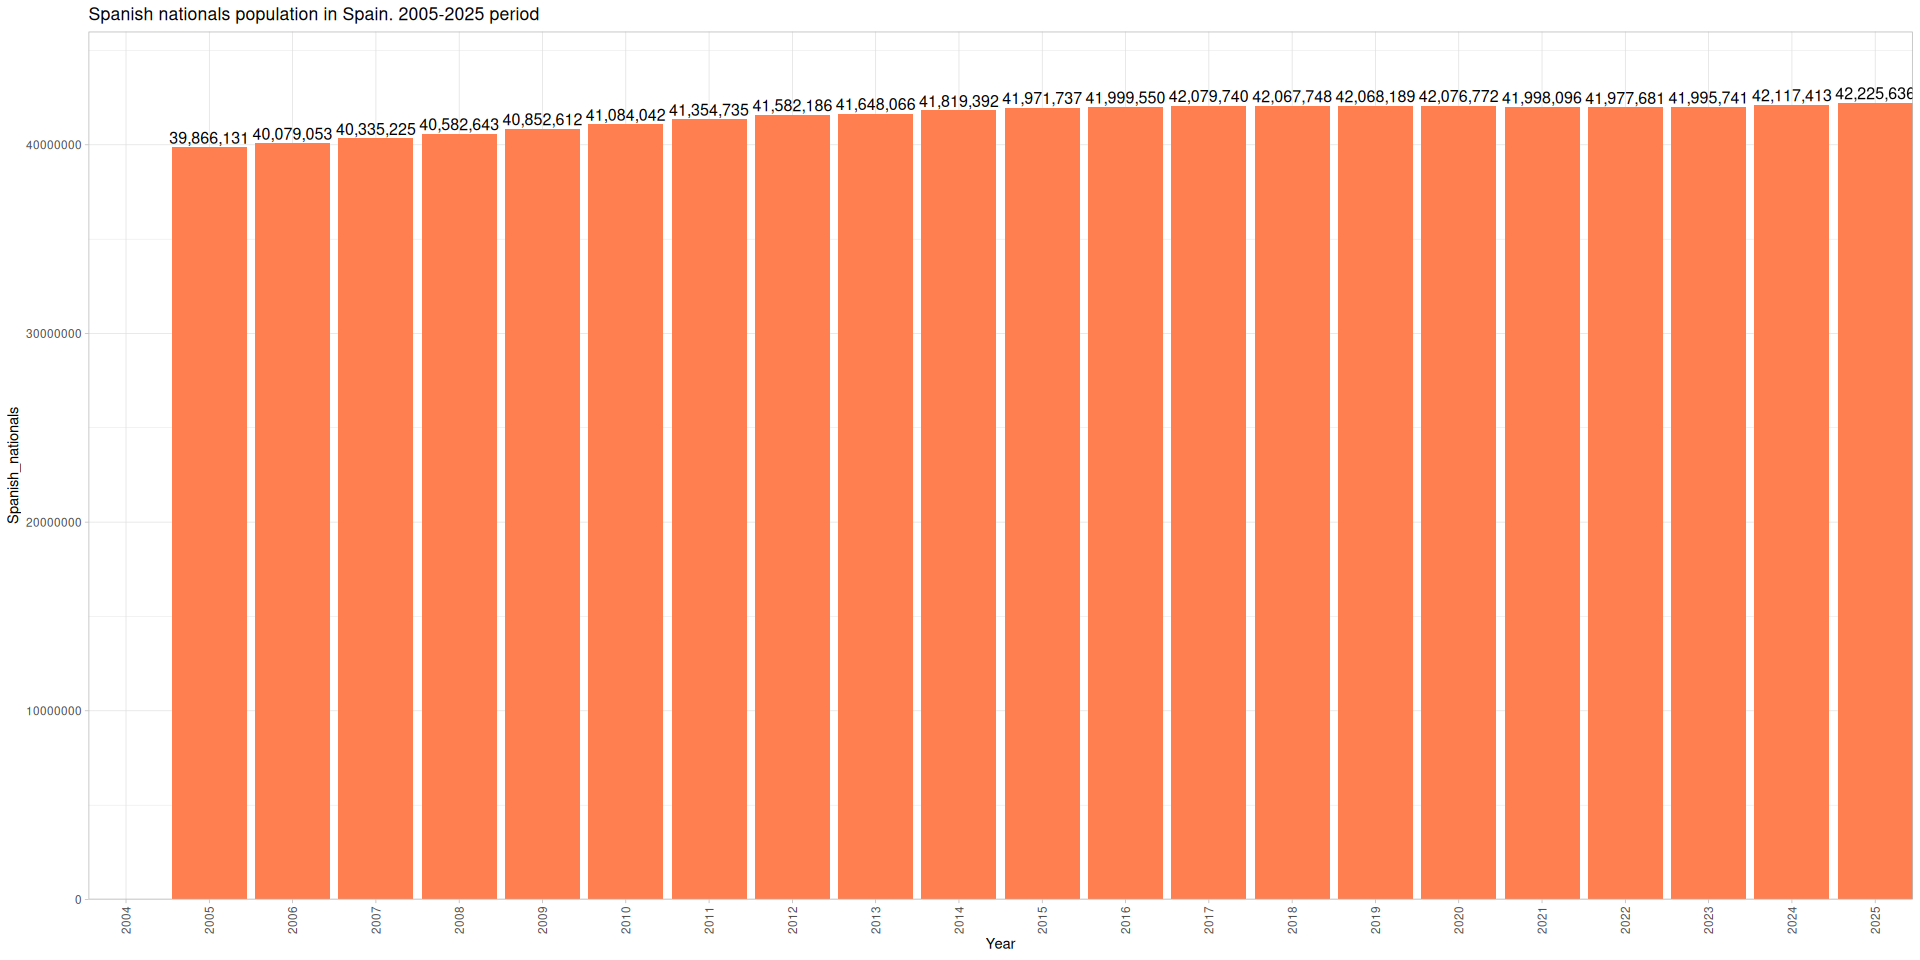
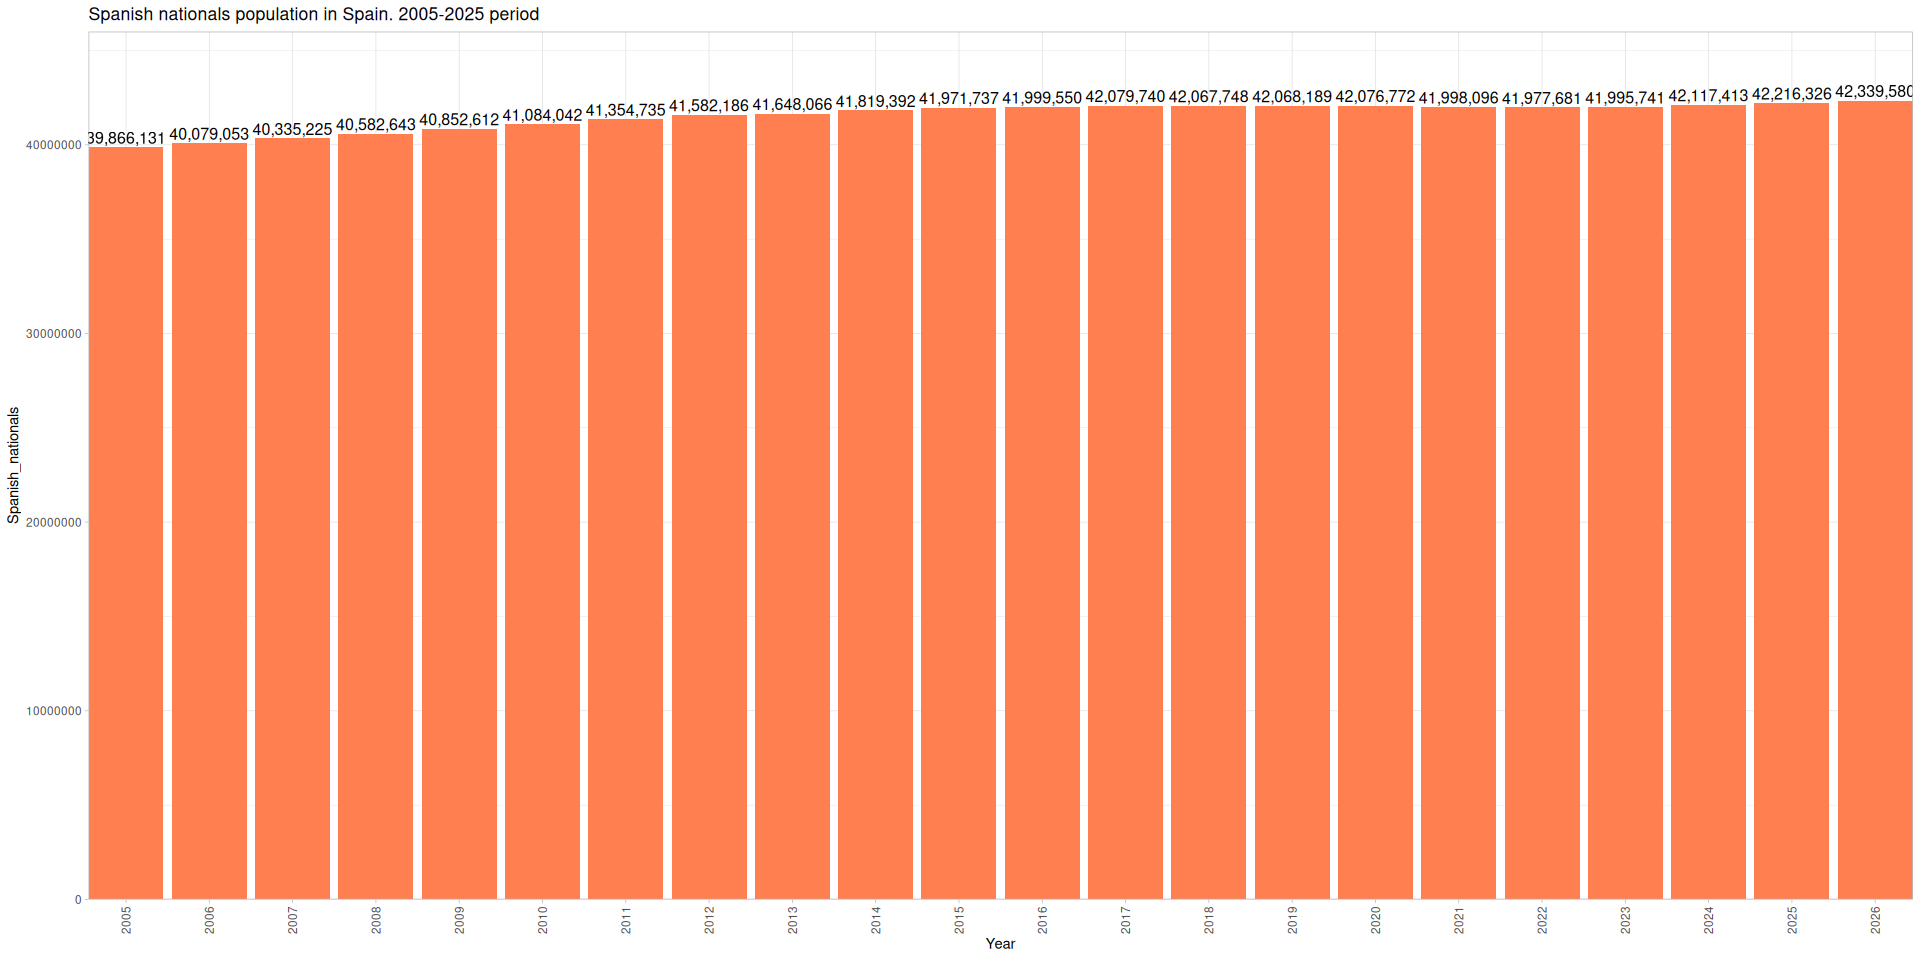
Rendered recent Spain population trends

Changed region(s): [[0.0312, 0.0938, 1.0, 0.9375]]

diff --git a/Recent-population-trends-in-Spain.md b/Recent-population-trends-in-Spain.md
@@ -1,12 +1,12 @@
 Recent Spain population trends
 ================
 PLR
-2026-08-28
+2026-08-30
 
 ## Latest date this report was produced
 
-Today’s date is **28 August 2026**. This report was published on the
-week starting on **26 August 2026**.
+Today’s date is **30 August 2026**. This report was published on the
+week starting on **28 August 2026**.
 
 ## 1. Load Spain population data
 
@@ -45,12 +45,12 @@ head(population_data)
     ## # A tibble: 6 × 8
     ##   date               total_population foreign_population percent_foreign_popul…¹
     ##   <chr>                         <dbl>              <dbl>                   <dbl>
-    ## 1 1 de enero de 2025         49077984            6852348                   0.140
-    ## 2 1 de enero de 2024         48619695            6502282                   0.134
-    ## 3 1 de enero de 2023         48085361            6089620                   0.127
-    ## 4 1 de enero de 2022         47486727            5509046                   0.116
-    ## 5 1 de enero de 2021         47400798            5402702                   0.114
-    ## 6 1 de enero de 2020         47318050            5241278                   0.111
+    ## 1 1 de enero de 2026         49596376            7256796                   0.146
+    ## 2 1 de enero de 2025         49128297            6911971                   0.141
+    ## 3 1 de enero de 2024         48619695            6502282                   0.134
+    ## 4 1 de enero de 2023         48085361            6089620                   0.127
+    ## 5 1 de enero de 2022         47486727            5509046                   0.116
+    ## 6 1 de enero de 2021         47400798            5402702                   0.114
     ## # ℹ abbreviated name: ¹percent_foreign_population
     ## # ℹ 4 more variables: total_population_YoY_N <dbl>,
     ## #   total_population_YoY_perc <dbl>, foreign_population_YoY_N <dbl>,
@@ -77,16 +77,16 @@ population_change
     ## # A tibble: 22 × 6
     ##    date           total_population foreign_nationals_po…¹ percent_foreign_popu…²
     ##    <chr>                     <dbl>                  <dbl>                  <dbl>
-    ##  1 1 de enero de…         49077984                6852348                 0.140 
-    ##  2 1 de enero de…         48619695                6502282                 0.134 
-    ##  3 1 de enero de…         48085361                6089620                 0.127 
-    ##  4 1 de enero de…         47486727                5509046                 0.116 
-    ##  5 1 de enero de…         47400798                5402702                 0.114 
-    ##  6 1 de enero de…         47318050                5241278                 0.111 
-    ##  7 1 de enero de…         46918951                4850762                 0.103 
-    ##  8 1 de enero de…         46645070                4577322                 0.0981
-    ##  9 1 de enero de…         46497393                4417653                 0.0950
-    ## 10 1 de enero de…         46418884                4419334                 0.0952
+    ##  1 1 de enero de…         49596376                7256796                 0.146 
+    ##  2 1 de enero de…         49128297                6911971                 0.141 
+    ##  3 1 de enero de…         48619695                6502282                 0.134 
+    ##  4 1 de enero de…         48085361                6089620                 0.127 
+    ##  5 1 de enero de…         47486727                5509046                 0.116 
+    ##  6 1 de enero de…         47400798                5402702                 0.114 
+    ##  7 1 de enero de…         47318050                5241278                 0.111 
+    ##  8 1 de enero de…         46918951                4850762                 0.103 
+    ##  9 1 de enero de…         46645070                4577322                 0.0981
+    ## 10 1 de enero de…         46497393                4417653                 0.0950
     ## # ℹ 12 more rows
     ## # ℹ abbreviated names: ¹foreign_nationals_population,
     ## #   ²percent_foreign_population
@@ -116,16 +116,16 @@ population_change_fmt_date
     ## # A tibble: 22 × 6
     ##    date_fmt   total_population foreign_nationals_popula…¹ percent_foreign_popu…²
     ##    <date>                <dbl>                      <dbl>                  <dbl>
-    ##  1 2004-01-01         42547454                         NA                NA     
-    ##  2 2005-01-01         43296335                    3430204                 0.0792
-    ##  3 2006-01-01         44009969                    3930916                 0.0893
-    ##  4 2007-01-01         44784659                    4449434                 0.0994
-    ##  5 2008-01-01         45668938                    5086295                 0.111 
-    ##  6 2009-01-01         46239271                    5386659                 0.116 
-    ##  7 2010-01-01         46486621                    5402579                 0.116 
-    ##  8 2011-01-01         46667175                    5312440                 0.114 
-    ##  9 2012-01-01         46818216                    5236030                 0.112 
-    ## 10 2013-01-01         46712650                    5064584                 0.108 
+    ##  1 2005-01-01         43296335                    3430204                 0.0792
+    ##  2 2006-01-01         44009969                    3930916                 0.0893
+    ##  3 2007-01-01         44784659                    4449434                 0.0994
+    ##  4 2008-01-01         45668938                    5086295                 0.111 
+    ##  5 2009-01-01         46239271                    5386659                 0.116 
+    ##  6 2010-01-01         46486621                    5402579                 0.116 
+    ##  7 2011-01-01         46667175                    5312440                 0.114 
+    ##  8 2012-01-01         46818216                    5236030                 0.112 
+    ##  9 2013-01-01         46712650                    5064584                 0.108 
+    ## 10 2014-01-01         46495744                    4676352                 0.101 
     ## # ℹ 12 more rows
     ## # ℹ abbreviated names: ¹foreign_nationals_population,
     ## #   ²percent_foreign_population
@@ -145,16 +145,37 @@ period. Total resident population in Spain, regardless of their
 nationality
 
 ``` r
-Total_pop_spain <- population_change_fmt_date %>% select(date_fmt,total_population) %>% 
+format_total_population_spain <- function(mydataset,my_date,column,format = NULL){
+  row <- mydataset %>% filter(date_fmt == my_date) 
+  print(row)
+  value <- row %>% pull({{column}})
+  print(value)
+  # Default value if format is not provided
+  if (column %in% c("total_population")){
+    return(as.character(prettyNum(value,big.mark = ",")))  
+  } else if (column %in% c("percent_foreign_population")){
+  return(paste0(round(value,1),"%"))  # to be built
+}
+}
+# format_total_population_spain(mydataset = population_change_fmt_date, my_date = "2007-01-01",column = "total_population")
+# format_total_population_spain(mydataset = population_change_fmt_date, my_date = "2007-01-01",column = "percent_foreign_population")
+```
+
+``` r
+Plot_total_population_spain <- population_change_fmt_date %>% select(date_fmt,total_population) %>% 
   ggplot(aes(date_fmt,total_population)) +
   geom_line(aes(colour = "sienna3")) +
   geom_point(fill = "sienna3") +
   labs(title = "Spain total poulation. 2004-2025 period",
        substile = "Source: INE Spanish Office for National Statistics") +
+  scale_y_continuous(breaks = seq(40000000, 50000000, by = 200000)) +
+  scale_x_date(date_labels="%Y",date_breaks  ="1 year") +
   theme_light() +
    theme(legend.position="none") +
-  theme(axis.text.x = element_text(angle = + 45, hjust = 0.5, vjust = 0.5)) 
-Total_pop_spain
+  theme(axis.text.x = element_text(angle = + 45, hjust = 0.5, vjust = 0.5),
+        axis.title.y = element_blank(),
+        axis.title.x = element_blank()) 
+Plot_total_population_spain
 ```
 
 ![](Recent-population-trends-in-Spain_files/figure-gfm/Spain%20total%20population-1.png)<!-- -->
@@ -174,16 +195,16 @@ INE_population_subset
     ## # A tibble: 22 × 4
     ##    date               total_population foreign_population Year 
     ##    <chr>                         <dbl>              <dbl> <chr>
-    ##  1 1 de enero de 2025         49077984            6852348 2025 
-    ##  2 1 de enero de 2024         48619695            6502282 2024 
-    ##  3 1 de enero de 2023         48085361            6089620 2023 
-    ##  4 1 de enero de 2022         47486727            5509046 2022 
-    ##  5 1 de enero de 2021         47400798            5402702 2021 
-    ##  6 1 de enero de 2020         47318050            5241278 2020 
-    ##  7 1 de enero de 2019         46918951            4850762 2019 
-    ##  8 1 de enero de 2018         46645070            4577322 2018 
-    ##  9 1 de enero de 2017         46497393            4417653 2017 
-    ## 10 1 de enero de 2016         46418884            4419334 2016 
+    ##  1 1 de enero de 2026         49596376            7256796 2026 
+    ##  2 1 de enero de 2025         49128297            6911971 2025 
+    ##  3 1 de enero de 2024         48619695            6502282 2024 
+    ##  4 1 de enero de 2023         48085361            6089620 2023 
+    ##  5 1 de enero de 2022         47486727            5509046 2022 
+    ##  6 1 de enero de 2021         47400798            5402702 2021 
+    ##  7 1 de enero de 2020         47318050            5241278 2020 
+    ##  8 1 de enero de 2019         46918951            4850762 2019 
+    ##  9 1 de enero de 2018         46645070            4577322 2018 
+    ## 10 1 de enero de 2017         46497393            4417653 2017 
     ## # ℹ 12 more rows
 
 ``` r
@@ -197,16 +218,16 @@ INE_calc_fields
     ## # A tibble: 22 × 4
     ##    Year  total_population foreign_population Spanish_nationals
     ##    <chr>            <dbl>              <dbl>             <dbl>
-    ##  1 2004          42547454                 NA                NA
-    ##  2 2005          43296335            3430204          39866131
-    ##  3 2006          44009969            3930916          40079053
-    ##  4 2007          44784659            4449434          40335225
-    ##  5 2008          45668938            5086295          40582643
-    ##  6 2009          46239271            5386659          40852612
-    ##  7 2010          46486621            5402579          41084042
-    ##  8 2011          46667175            5312440          41354735
-    ##  9 2012          46818216            5236030          41582186
-    ## 10 2013          46712650            5064584          41648066
+    ##  1 2005          43296335            3430204          39866131
+    ##  2 2006          44009969            3930916          40079053
+    ##  3 2007          44784659            4449434          40335225
+    ##  4 2008          45668938            5086295          40582643
+    ##  5 2009          46239271            5386659          40852612
+    ##  6 2010          46486621            5402579          41084042
+    ##  7 2011          46667175            5312440          41354735
+    ##  8 2012          46818216            5236030          41582186
+    ##  9 2013          46712650            5064584          41648066
+    ## 10 2014          46495744            4676352          41819392
     ## # ℹ 12 more rows
 
 These charts below describe the evolution of Total, foreign and spanish
@@ -274,23 +295,23 @@ national_population_plot
 
 ![](Recent-population-trends-in-Spain_files/figure-gfm/Spain%20national%20population%20bar%20plot-1.png)<!-- -->
 
-## 3. Spain population figures Overveiw details
+## 3. Spain population figures Overview details
 
 In this section we highlight a couple of trends observed in both Total
 and foreign population in Spain from 2004 until 2025 period.
 
-- As of 1st of January **2025**., the year for the latest available
-  population figures, Total population in Spain was **49,077,984**. Up
+- As of 1st of January **2026**., the year for the latest available
+  population figures, Total population in Spain was **49,596,376**. Up
   by 458,253 from previous year.
 
-- In contrast, on the year **2004**, the first year on this series,
-  total population in Spain was **42,547,454**.
+- In contrast, on the year **2005**, the first year on this series,
+  total population in Spain was **43,296,335**.
 
 - In terms of foreign population, on the following year **2005**.there
   was a foreign population of **3,430,204**
 
 - At the end of the series on 1st January **2025**, latest foreign
-  population figures in Spain was **6,852,348**. We will describe these
+  population figures in Spain was **6,911,971**. We will describe these
   population changes in absolute figures and percent change in the next
   section below.
 
@@ -298,178 +319,3 @@ and foreign population in Spain from 2004 until 2025 period.
 
 Next, we describe the foreign population percent share of the total
 population in Spain for the 2004-2025 period.
-
-## 4. Populating report using helper functions
-
-In this section we will use a set of helper functions to create initial
-data sets for selected countries. And also to format each figure used in
-the Markdwon report.
-
-### 4.1 Ingest raw Eurostat downloaded data into R performing data wrangling
-
-This first section takes the raw Excel file just downloaded from
-Eurostat and applying several formatting options to get it ready for
-using it as input data for ggplot2 charts: a) renmoves null values, b)
-pivots data from wide to long format, c) creates required variables
-(date_1y_ago, value_1y_ago..) for plots, d) Allows users to filters data
-for selected countries and indicators, among other things.
-
-This function can be modified to include extra arguments, below shows of
-to format “unemploymen” raw data indicator, and also I applying a
-similar approach to “part_time_persons” the second indicator downloaded
-from Eurostat.
-
-``` r
-# I need to place all my Functions in this chunck to be used in the report !!! 
-# So I can render the Markdown report !!!
-# FUNCTION 01 02 - Import indicators
-Import_eurostat_indicators <- function(tab_name,choose_directory = NULL, selected_countries,indicator = NULL){
-
-  # une_rt_a (Unemployment by sex and age - annual data). Time 23/23 (2003-2025)
-  if (indicator == "unemp"){
-  # 1.1 arange original input data in Long format  
-  unemp_raw <- read_excel(file.path(here::here(), "data","une_rt_a__custom_14324113_page_spreadsheet.xlsx"),
-                              sheet = tab_name, col_names = TRUE, na = ":", skip = 8,n_max = 23) %>% 
-              filter(!is.na(France)) %>%  # France has the highest number of populated rows only 1 NA
-              pivot_longer(!Date, names_to = "Countries", values_to = "metric_value") 
-  unem_long <- unemp_raw %>% mutate(metric = "unemployment_rate", units = "percentage") %>% 
-                             select(date = Date,country = Countries,metric_value, metric, units) %>% 
-                             mutate(metric_value = as.numeric(metric_value)) %>% # to compute calculations metric_Value must be numeric
-                         filter(country %in% c(selected_countries))   #  filter initial data by selection of countries
-  # 1.2 New variable - lagged values (1year ago, 2 years ago, 5 years ago, grouped by country)
-  # date_1y_ago, value_1y_ago, date_5y_ago, value_5y_ago
-  unem_long_lags <- unem_long %>% 
-                    arrange(country,date) %>% 
-                    group_by(country) %>% 
-                    mutate(
-                      date_1y_ago = lag(date,1),
-                      value_1y_ago = lag(metric_value,1),
-                      date_2y_ago = lag(date,2),
-                      value_2y_ago = lag(metric_value,2),
-                      date_5y_ago = lag(date,5),
-                      value_5y_ago = lag(metric_value,5)
-                      ) %>% 
-                    ungroup()
-  # 1.3 Add new set of columns to display min and max values BY COUNTRY
-  unemp_long_min_max<- unem_long_lags %>%
-                   select(country,date,metric_value,metric,units) %>%
-    group_by(country) %>% 
-  mutate(
-          min_value_country = min(metric_value, na.rm = TRUE),
-          max_value_country = max(metric_value, na.rm = TRUE)
-          ) %>% 
-    ungroup()
-  # 1.5 Finally include min and max values entire unemp dataset
-  unempl_all <- unemp_long_min_max %>% 
-    mutate(
-      min_value_indic = min(metric_value, na.rm = TRUE),
-      max_value_indic = max(metric_value, na.rm = TRUE)
-    )              
-  
-  # 1.6 Ensure final output from function is a data.frame() object
-  unemp_long_dataframe <- data.frame(unempl_all)
-  
-  # 1.7 Write dataframe to "data_cleansed_folder"
-  filename <- "country_sel_unemp_long_dataframe.csv"
-  output_file <- file.path("data_cleansed",filename)   # Using file.path() to build relative path to data_cleansed sub-folder. works on Windows, Linux, and macOS.
-  write.csv(unemp_long_dataframe,file = output_file,row.names = FALSE)
-  cat("File saved as:", output_file, "\n") # Write  message on Console everytime the output file is written to .csv and saved to "data_cleansed" sub-folder
-  
-  # Return final selection of countries unemployment indicator values    
-  return(unemp_long_dataframe)
-  
-  } else if (indicator == "part_time_persons"){
-  # Downloaded table data: lfsi_pt_a (Part-time employment and temporary contracts-annual data)
-  # Return final selection of countries temporary employment figures
-  part_time_emp_raw <- read_excel(file.path(here::here(),"data","lfsi_pt_a__custom_14828862_page_spreadsheet.xlsx"),
-                             sheet = tab_name, col_names = TRUE, na = ":", skip = 10, n_max = 22) %>% 
-    filter(!is.na(France)) %>%  # France has the highest number of populated rows only 1 NA
-    pivot_longer(!Date, names_to = "Countries", values_to = "metric_value") 
-  
-  part_time_long <- part_time_emp_raw %>% mutate(metric = "per_persons_working_pat_time", units = "percentage") %>% 
-               select(date = Date,country = Countries,metric_value, metric, units) %>% 
-    filter(country %in% c(selected_countries))   #  filter initial data by selection of countries
-  
-  # Return final selection of countries temporary employment indicator values  
-part_time_long_lags <- part_time_long %>% 
-    arrange(country,date) %>% 
-    group_by(country) %>% 
-    mutate(
-      date_1y_ago = lag(date,1),
-      value_1y_ago = lag(metric_value,1),
-      date_2y_ago = lag(date,2),
-      value_2y_ago = lag(metric_value,2),
-      date_5y_ago = lag(date,5),
-      value_5y_ago = lag(metric_value,5)
-    ) %>% 
-    ungroup()
-
-part_time_long_min_max<- part_time_long_lags %>%
-  select(country,date,metric_value,metric,units) %>%
-  group_by(country) %>% 
-  mutate(
-    min_value_country = min(metric_value, na.rm = TRUE),
-    max_value_country = max(metric_value, na.rm = TRUE)
-  ) %>% 
-  ungroup()
-# 1.5 Finally include min and max values entire unemp dataset
-part_time_all <- part_time_long_min_max %>% 
-  mutate(
-    min_value_indic = min(metric_value, na.rm = TRUE),
-    max_value_indic = max(metric_value, na.rm = TRUE)
-  )              
-# 1.6 Ensure final temp_emp dataframe output from function is a data.frame() object
-temp_emp_long_dataframe <- data.frame(part_time_all)
-
-return(temp_emp_long_dataframe)
-    }
-  
-}
-# Parameters (tab_name = "Sheet 1", selcted_countries = c("country1","country2","country3"), indicator ="unemp/part_time_persons")
-Import_eurostat_indicators(tab_name = "Sheet 1", selected_countries = c('Bulgaria','Estonia','Ireland'),indicator = "unemp")
-```
-
-``` r
-# Function 02 02 - declares path to data folder where formatted input data is saved  
-
-# FUNCTION 02 - Declare filepath to "data_cleansed" folder
-data_filepath  <- function(tab_name = NULL,choose_directory = NULL, own_directory = NULL){
-  
-  if(choose_directory == "data_folder") {
-    data_folder_path = file.path(here::here(), "data") 
-    if (dir.exists(data_folder_path)) {return(data_folder_path)}
-  } else if (choose_directory == "data_cleansed") {
-    data_cleansed_path = file.path(here::here(),"data_cleansed")
-    if (dir.exists(data_cleansed_path)) {return(data_cleansed_path)}
-  } else { stop ("please provide your own directory")}
-  # Include details about user directory
-  if (dir.exists(own_directory)){return(own_directory)}
-  else{stop("Please ensure you provide your own_directory",own_directory)}
-  
-}
-
-# Use function
-data_filepath(choose_directory = "data_cleansed") 
-```
-
-    ## [1] "/home/pablo-nostromo/Documents/popos_pablo/R_github/Eurostat_labour_market/data_cleansed"
-
-``` r
-data_filepath(choose_directory = "data_cleansed")
-
-dataset_sel_countries <- fread("data_cleansed/country_sel_unemp_long_dataframe.csv")
-dataset_sel_countries
-```
-
-Now we use function from previous r code chunch called
-“Import_eurostat_indicators()” to subset unemployment indicator data for
-a selection of countries (“Bulgaria”,“Estonia” and “Ireland”)
-
-Besides, in this section we can see how to populate text using
-“fmt_markdown_figures” function below to apply specific format types
-(numeric values including thousand separators, and percentage values
-displaying the “%” sign) when describing figures in the rendered
-markdown text output file.
-
-- Now I include a new function in the section below to display
-  unemployment figures using inline R code with specific formats.
